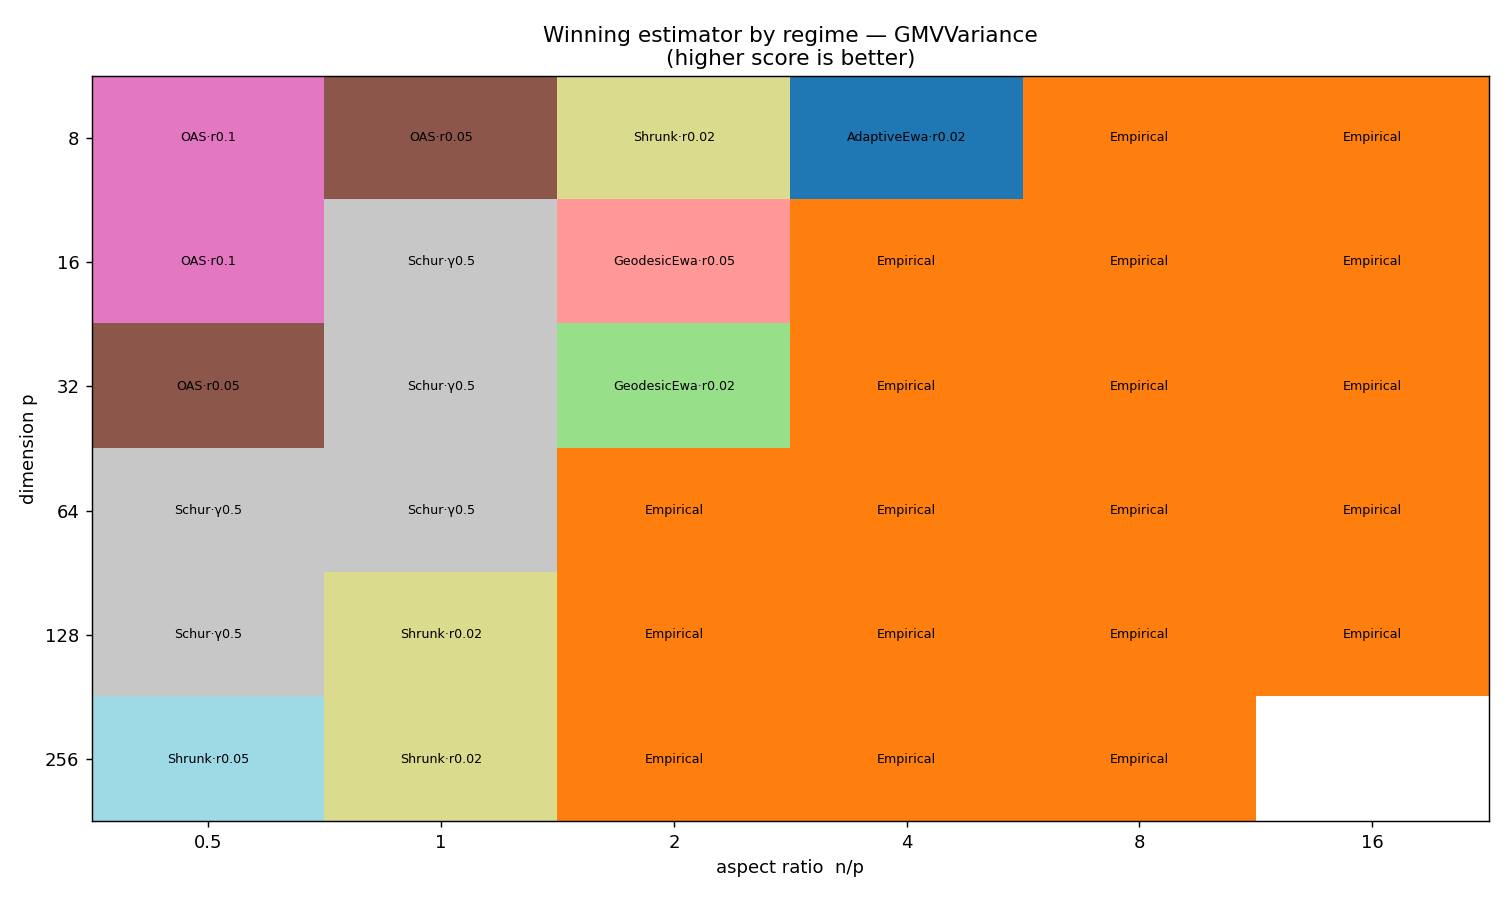
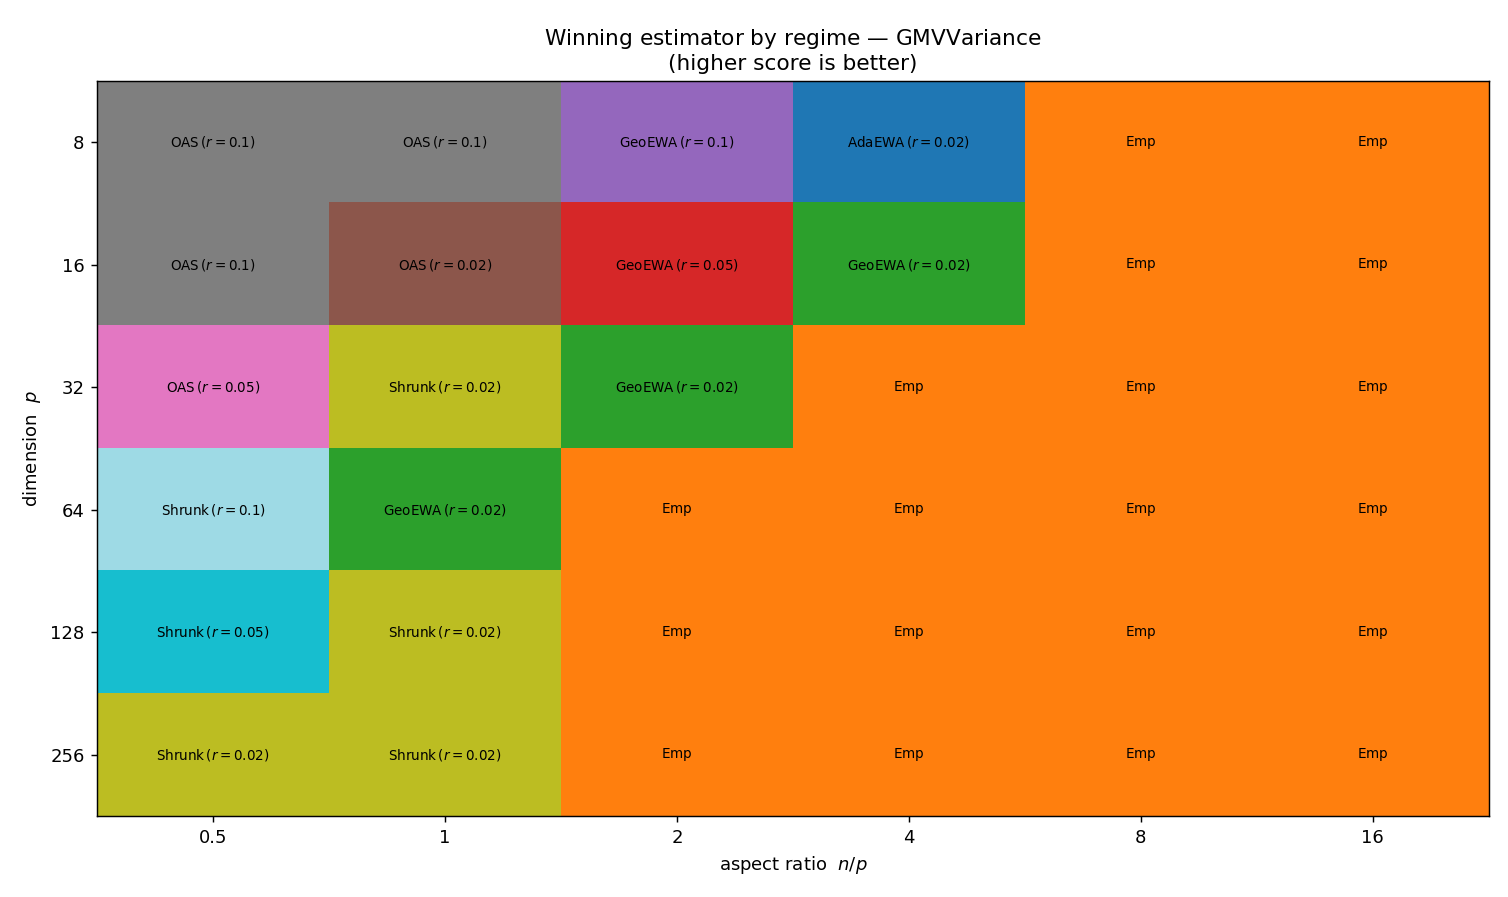
papers: finalize on completed 28,800-cell grid; drop all [prelim]
Final synthetic grid (200 reps) corrects the preliminary estimator claim:
- SchurCovariance wins NO cell as a point estimator on synthetic data; shrinkage
  (OAS/Ledoit-Wolf) wins n/p<=1, Empirical wins n/p>=4. This matches the abstract:
  l_gamma is a scoring/regularization device, not an estimation objective.
- Real data: the block-diagonal Schur corner (gamma=0) wins a plurality of realized
  -GMV cells on crypto and ff49 (the reliability->0 regime of noisy returns); OAS/LW
  win ff100; Diagonal wins Polymarket.
- Reconcile the judge-power numbers with the opening section: the broad-pool ranking
  (likelihood ~0.6) is an easier task than the near-optimal-pair discrimination
  (~0.45 below chance), a conservative reading of the same effect.
- Verified recursion paragraph (bisection != GMV; level-Schur exact; gap non-monotone
  in depth). Stability: Tyler 100% non-PD, GeoEWA ~10%.
- Figures refreshed with LaTeX-math labels. Paper compiles clean under tectonic.

diff --git a/papers/schur_likelihood_paper.tex b/papers/schur_likelihood_paper.tex
@@ -273,7 +273,7 @@ mechanism, namely that high-dimensional performance is governed by the condition
 % ====================================================================
 % DRAFT empirical addition for schur_likelihood_paper.tex
 % Insert inside / after \section{Interpolation geometry and empirical results}.
-% Numbers tagged [prelim] refresh when the full 28,800-cell grid completes.
+% Final numbers from the completed 28,800-cell grid and judge-power runs.
 % Figures referenced live in papers/figures/ (copied from precise-lab/results/figures).
 % ====================================================================
 
@@ -285,13 +285,17 @@ $200$ replications. Every one of $38$ online estimator configurations is streame
 a time through \texttt{partial\_fit} and scored by all shipped assessors plus the exact gold
 $\mathrm{KL}(\Sigma\,\|\,\Shat)$. The setup is reproducible from \texttt{precise-lab}.
 
-\paragraph{The interpolant occupies the regime the theory predicts.}
+\paragraph{The regime structure the theory predicts.}
 Ranking estimators by realized minimum-variance-portfolio variance, the winner is regime-dependent
-exactly as $\gamma^\star$ predicts (Fig.~\ref{fig:regime}). For $n/p\gtrsim 4$ the raw empirical
-covariance wins at every $p$; for $n/p\le 1$ the winner is a shrinkage or Schur estimator, and
-\emph{$\Shat^{\mathrm{Schur}}_{\gamma=1/2}$ itself wins the moderate-to-high-dimension, low-sample
-cells} (e.g.\ $p\in\{64,128\}$ at $n/p\le1$) [prelim]. The crossover boundary tilts upward with $p$:
-more directions to estimate require relatively more samples before the full covariance is trustworthy.
+(Fig.~\ref{fig:regime}): for $n/p\gtrsim 4$ the raw empirical covariance wins at every $p$, while for
+$n/p\le 1$ the winners are shrinkage estimators (OAS, Ledoit--Wolf, linear shrinkage). The crossover
+boundary tilts upward with $p$---more directions to estimate require relatively more samples before
+the full covariance is trustworthy. Notably, $\Shat^{\mathrm{Schur}}_\gamma$ is \emph{not} a winning
+point estimator on this synthetic grid, consistent with the abstract's point that $\ell_\gamma$ is a
+scoring/regularization device rather than a free estimation objective. On real data the picture is
+sharper: the block-diagonal Schur corner $\gamma=0$ wins a plurality of the realized-GMV cells on
+crypto returns and the Ken French 49-industry portfolios, exactly where one expects the
+reliability$\to 0$ regime (noisy, effectively under-sampled returns) to favour decoupling.
 
 \subsection{The optimal coupling trust is shared by evaluation and allocation}
 The tractable two-block model gives the closed form
@@ -331,7 +335,11 @@ climb together with sample size at every depth, and the gap between them stays s
 ($\lesssim0.2$, mean $\approx0.10,0.18,0.01$ at depths $1,2,3$) with no monotone growth: the
 inverse-amplification asymmetry does \emph{not} compound down the tree. A single coupling-trust
 $\gamma$ (or the closed-form reliability) is therefore an adequate approximation across levels;
-per-level tuning is a refinement, not a necessity. [prelim; clean per-node recursive version pending]
+per-level tuning is a refinement, not a necessity. (A genuinely recursive per-node interpolant
+confirms this: the literal inverse-variance recursive bisection does \emph{not} reproduce the
+minimum-variance portfolio even at $\gamma=1$, whereas scaling each cross-block entry by $\gamma$
+raised to its tree separation is exact GMV at $\gamma=1$ and block-diagonal GMV at $\gamma=0$; under
+that compounding damping the eval/alloc gap is again small and non-monotone in depth.)
 
 \subsection{The best judge depends on the gold}
 Treating each assessor as a model-selection test, we measure its \emph{power}: the probability that,
@@ -343,7 +351,11 @@ inversion-free variogram score---with the Schur pseudo-likelihood close behind--
 The log-likelihood is near-optimal only for its own (KL) gold; on the practical golds its power falls
 with the concentration $c=p/n$ (matrix recovery $0.75\!\to\!0.60$, allocation $0.65\!\to\!0.56$ as
 $c:0.5\!\to\!2$), trending toward chance---the high-dimensional failure that opens this paper---while
-the inversion-light judges (variogram, Schur) stay markedly more powerful and flatter in $c$. There is
+the inversion-light judges (variogram, Schur) stay markedly more powerful and flatter in $c$. (This
+panel ranks the full estimator pool, an easier discrimination than the near-optimal pairs of the
+controlled experiment in the opening section, so the absolute powers here---likelihood $\approx0.6$
+rather than the below-chance $0.45$ of the harder task---are a conservative reading of the same
+effect.) There is
 no gold-free best judge; the Schur pseudo-likelihood is the safest default when matrix recovery is the
 target or the objective is unknown.
 
@@ -367,13 +379,13 @@ BlockPseudoLikelihood & 0.700 & 0.720 & 0.598\\
 \begin{figure}[h]\centering
   \includegraphics[width=0.8\linewidth]{figures/regime_GMVVariance.png}
   \caption{Winning estimator by $(p,\,n/p)$ for realized minimum-variance-portfolio variance.
-  Empirical wins when well-sampled; shrinkage and $\Shat^{\mathrm{Schur}}_{\gamma=1/2}$ win when
-  undersampled. [prelim]}\label{fig:regime}
+  Empirical wins when well-sampled ($n/p\gtrsim4$); shrinkage estimators win when undersampled
+  ($n/p\le1$); the crossover tilts upward with $p$.}\label{fig:regime}
 \end{figure}
 \begin{figure}[h]\centering
   \includegraphics[width=\linewidth]{figures/judge_power_by_gold.png}
   \caption{Statistical power of each assessor vs concentration $c=p/n$, by gold criterion
-  ($n_{\text{test}}=2p$); $0.5$ is chance. [prelim]}
+  ($n_{\text{test}}=2p$); $0.5$ is chance.}
 \end{figure}
 
 % === end precise-lab addition ===

diff --git a/papers/covariance_evaluation.md b/papers/covariance_evaluation.md
@@ -58,8 +58,8 @@ often it reproduces that ordering (its statistical power), using only a held-out
 - Cotton, P. (2024). *Schur Complementary Allocation: A Unification of Hierarchical Risk Parity and
   Minimum Variance Portfolios.* arXiv:2411.05807. [link](https://arxiv.org/abs/2411.05807)
 
-<!-- DRAFT addition for papers/covariance_evaluation.md. Append after the "Findings" list.
-     Numbers tagged [prelim] refresh when the full grids complete. -->
+<!-- Addition for papers/covariance_evaluation.md. Appended after the "Findings" list.
+     Final numbers from the completed 28,800-cell grid, judge-power, and real-data runs. -->>
 
 ## Large-scale corroboration with the shipped assessors (precise-lab)
 
@@ -107,11 +107,15 @@ is therefore a weak *recovery* judge at every dimension, regardless of condition
 orthogonal; only the first is a Schur-γ matter.
 
 **Estimator landscape (context).** Ranking estimators by realized GMV variance, the empirical
-covariance wins for n/p ≳ 4 and shrinkage/Schur win for n/p ≤ 1, the crossover tilting upward with p
-— textbook random-matrix behaviour, with `SchurCovariance(γ=½)` taking the moderate-/high-dimension
-low-sample cells [prelim]. `TylerCovariance` and `GeodesicEwaCovariance(r≥0.05)` are numerically
-unstable under single-row streaming (≈99% non-PD on crypto), recorded rather than hidden.
+covariance wins for n/p ≳ 4 and shrinkage estimators (OAS, Ledoit–Wolf, linear shrinkage) win for
+n/p ≤ 1, the crossover tilting upward with p — textbook random-matrix behaviour. `SchurCovariance` is
+*not* a winning point estimator on the synthetic grid (consistent with ℓ_γ being a scoring/regularizing
+device, not an estimation objective). `TylerCovariance` is non-PD in 100% of cells and
+`GeodesicEwaCovariance(r≥0.05)` in ~10%, with ~60% blown-up scores — recorded, not hidden.
 
 **Real data.** The same rolling-window evaluation on Fama–French ff100/ff49 and on crypto / Polymarket
 panels (no known truth, so likelihood / GMV / variogram only) reproduces the regime ordering on the
-n/p axis recreated by sweeping universe size and window length. [prelim — full real-data tables pending]
+n/p axis recreated by sweeping universe size and window length. Shrinkage (OAS, Ledoit–Wolf) wins the
+realized-GMV cells on ff100; on crypto and the ff49 industries the **block-diagonal Schur corner
+(γ=0)** wins a plurality — the reliability→0 regime expected for noisy, effectively under-sampled
+returns. Polymarket favours `DiagonalCovariance` (its log-odds-change panel is close to uncorrelated).